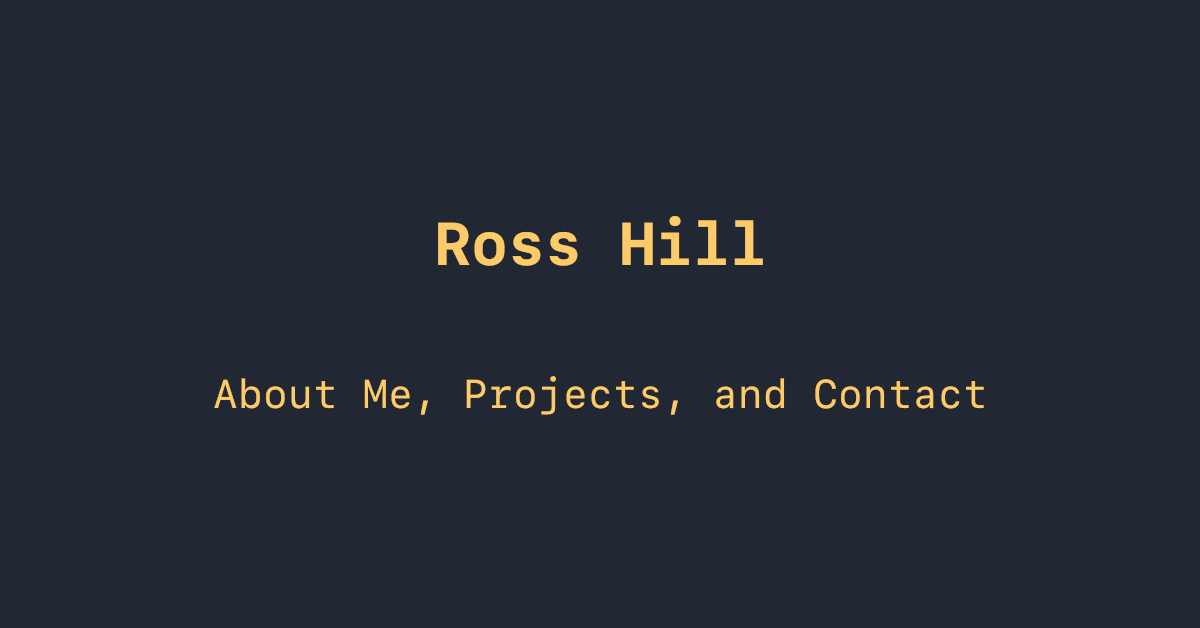
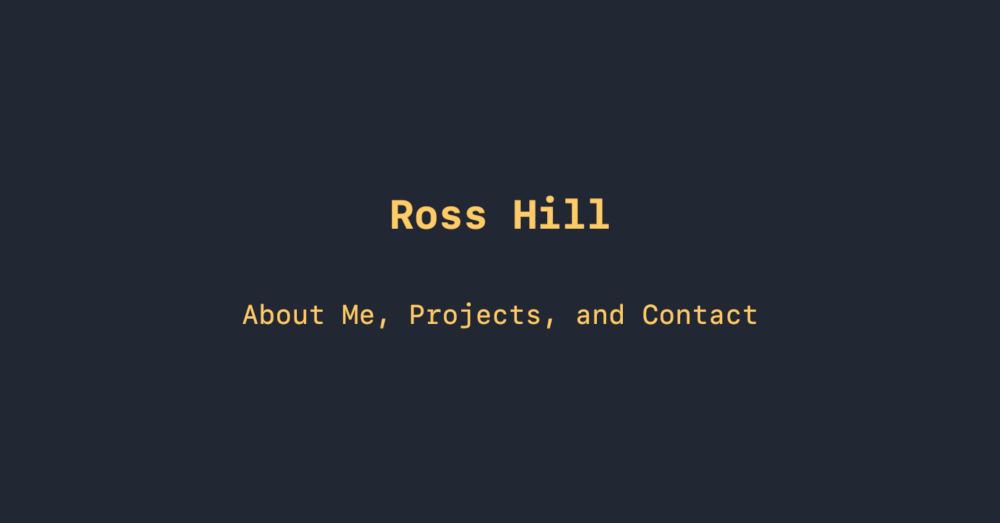
styling fixes

Changed region(s): [[0.155, 0.5813, 0.837, 0.673], [0.341, 0.3365, 0.651, 0.4589]]

diff --git a/src/components/Sidebar.svelte b/src/components/Sidebar.svelte
@@ -28,7 +28,7 @@
       >
         GitHub
       </a>
-      /
+      <span class="smallSlash">/</span>
       <a
         target="_blank"
         rel="noopener noreferrer"
@@ -37,7 +37,7 @@
       >
         LinkedIn
       </a>
-      /
+      <span class="smallSlash">/</span>
       <a
         href="/resume.pdf"
         on:click={() => gtag("event", "outbound", { event_label: "Resume" })}
@@ -104,6 +104,7 @@
 
   p.subtitle {
     margin-top: 1rem;
+    color: var(--subtitle);
   }
 
   p.subtitle.role {

diff --git a/src/components/Post.svelte b/src/components/Post.svelte
@@ -92,7 +92,9 @@
                 GitHub
               </a>
             {/if}
-            {#if post.repository && post.website}&nbsp;/&nbsp;{/if}
+            {#if post.repository && post.website}
+              <span class="smallSlash">/</span>
+            {/if}
             {#if post.website}
               <a
                 on:click={() =>

diff --git a/static/global.css b/static/global.css
@@ -144,6 +144,12 @@ h4 {
   padding: 0 5%;
 }
 
+span.smallSlash {
+  transform: scale(0.9);
+  padding: 0 1px;
+  display: inline-block;
+}
+
 code {
   background-color: var(--postBackground) !important;
   border: 1px solid var(--postBorder);
